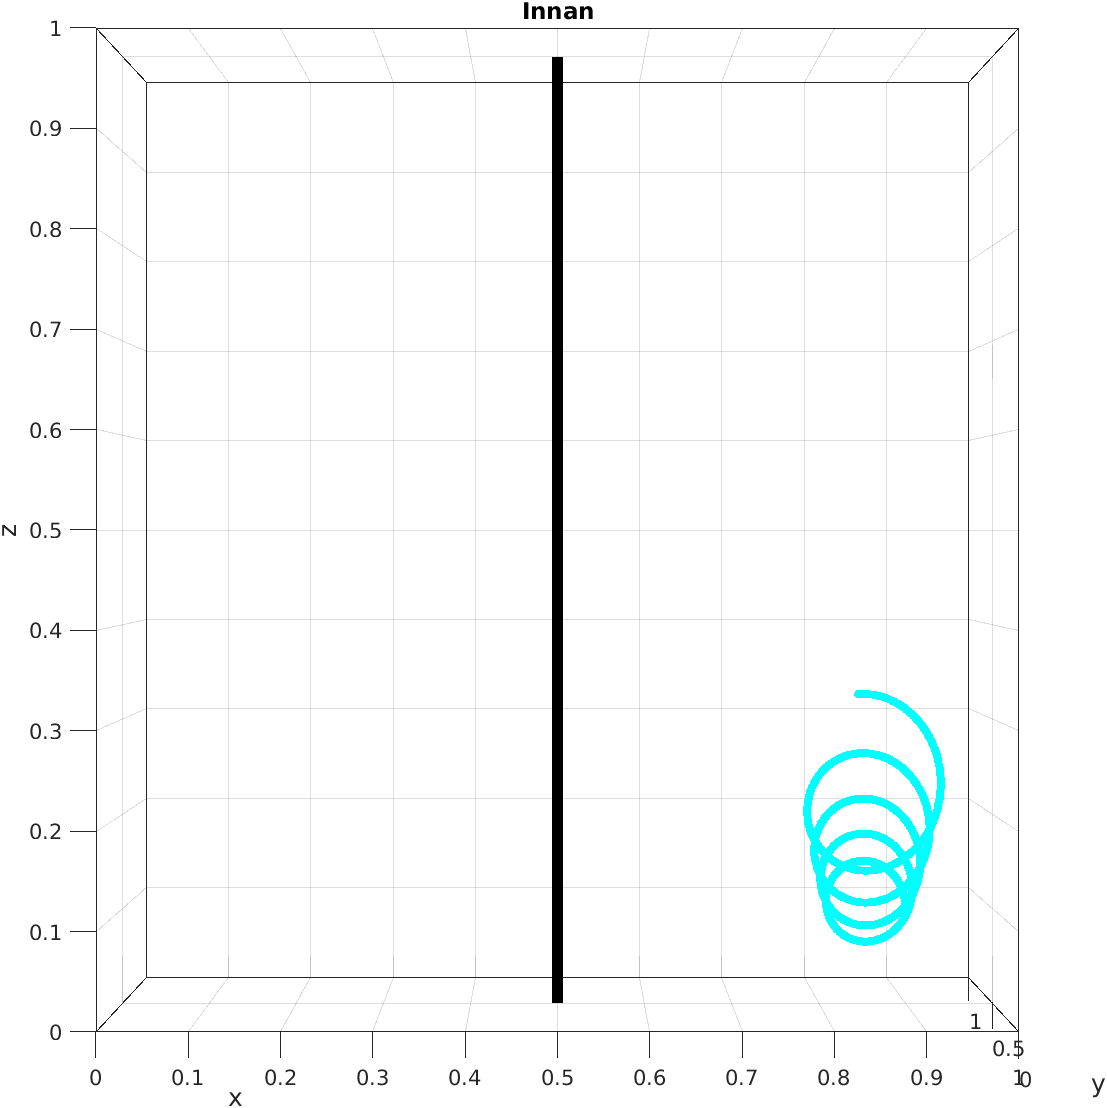
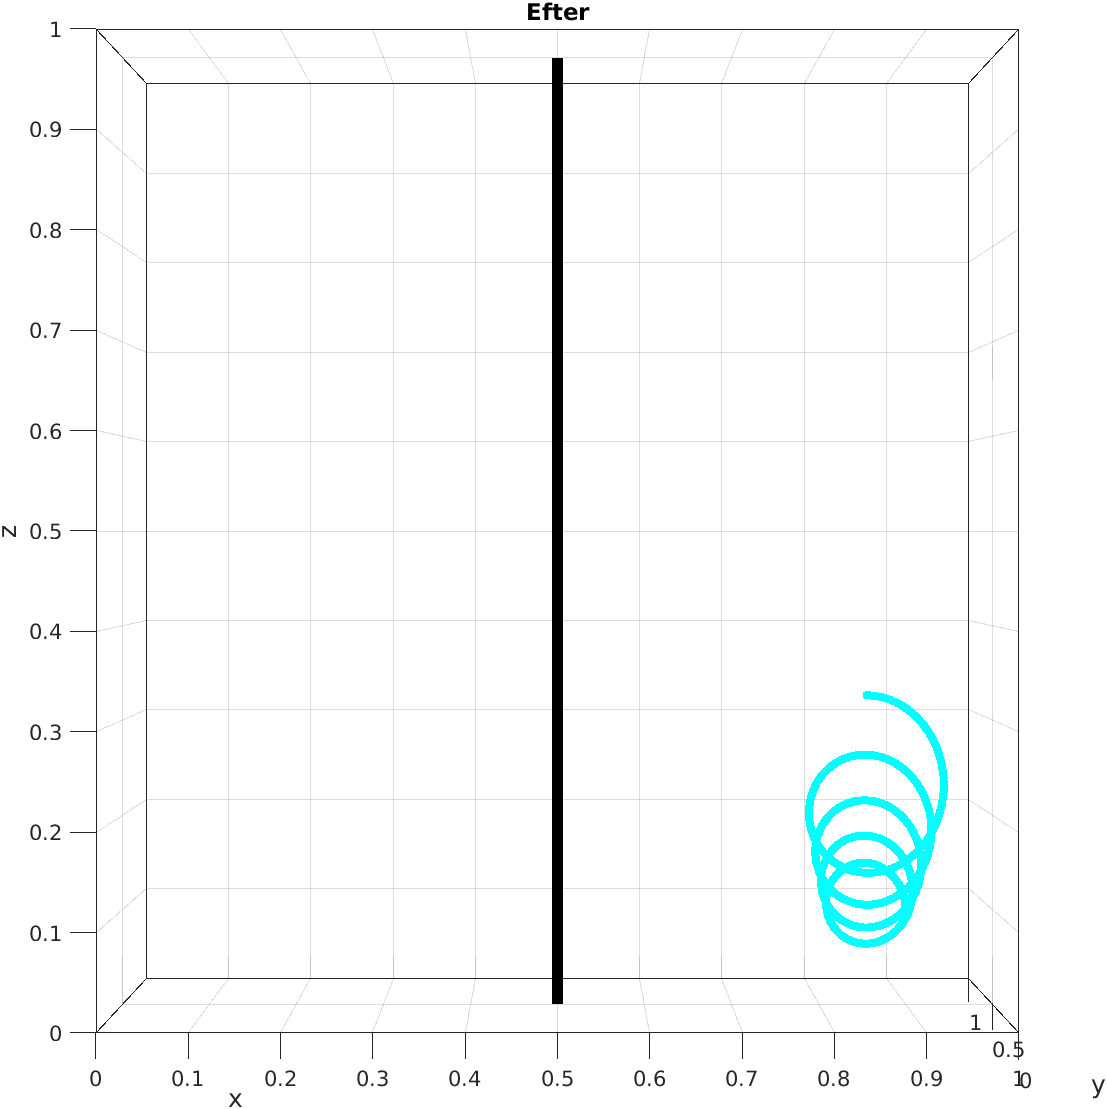
Fix RK-method, approximate velocity forward in time

diff --git a/run_simulation_RK.m b/run_simulation_RK.m
@@ -18,15 +18,15 @@ for t=0:dt:T
 
         F = F_from_field_obj(field_obj, x+dt/2*k1(1:3));
         force = multivector_to_vector(q/2*((F+F')/sqrt(epsilon_0)+sqrt(mu_0)/2*((F-F')*v_multi-v_multi*(F-F'))));
-        k2 = [v; force/m];
+        k2 = [v+dt/2*k1(4:6); force/m];
 
         F = F_from_field_obj(field_obj, x+dt/2*k2(1:3));
         force = multivector_to_vector(q/2*((F+F')/sqrt(epsilon_0)+sqrt(mu_0)/2*((F-F')*v_multi-v_multi*(F-F'))));
-        k3 = [v; force/m];
+        k3 = [v+dt/2*k2(4:6); force/m];
 
         F = F_from_field_obj(field_obj, x+dt*k3(1:3));
         force = multivector_to_vector(q/2*((F+F')/sqrt(epsilon_0)+sqrt(mu_0)/2*((F-F')*v_multi-v_multi*(F-F'))));
-        k4 = [v; force/m];
+        k4 = [v+dt*k3(4:6); force/m];
 
         S = [x; v] + dt/6*(k1+2*k2+2*k3+k4);
         particles(j).x = S(1:3); particles(j).v = S(4:6);

diff --git a/main.m b/main.m
@@ -66,7 +66,7 @@ ax = initialize_axes(ax);
 
 % Plot stuff
 view(0,0)
-title(ax,"Innan")
+title(ax,"Efter")
 
 % Plot particles and field object
 field_obj = plot_field_obj(ax,field_obj);
